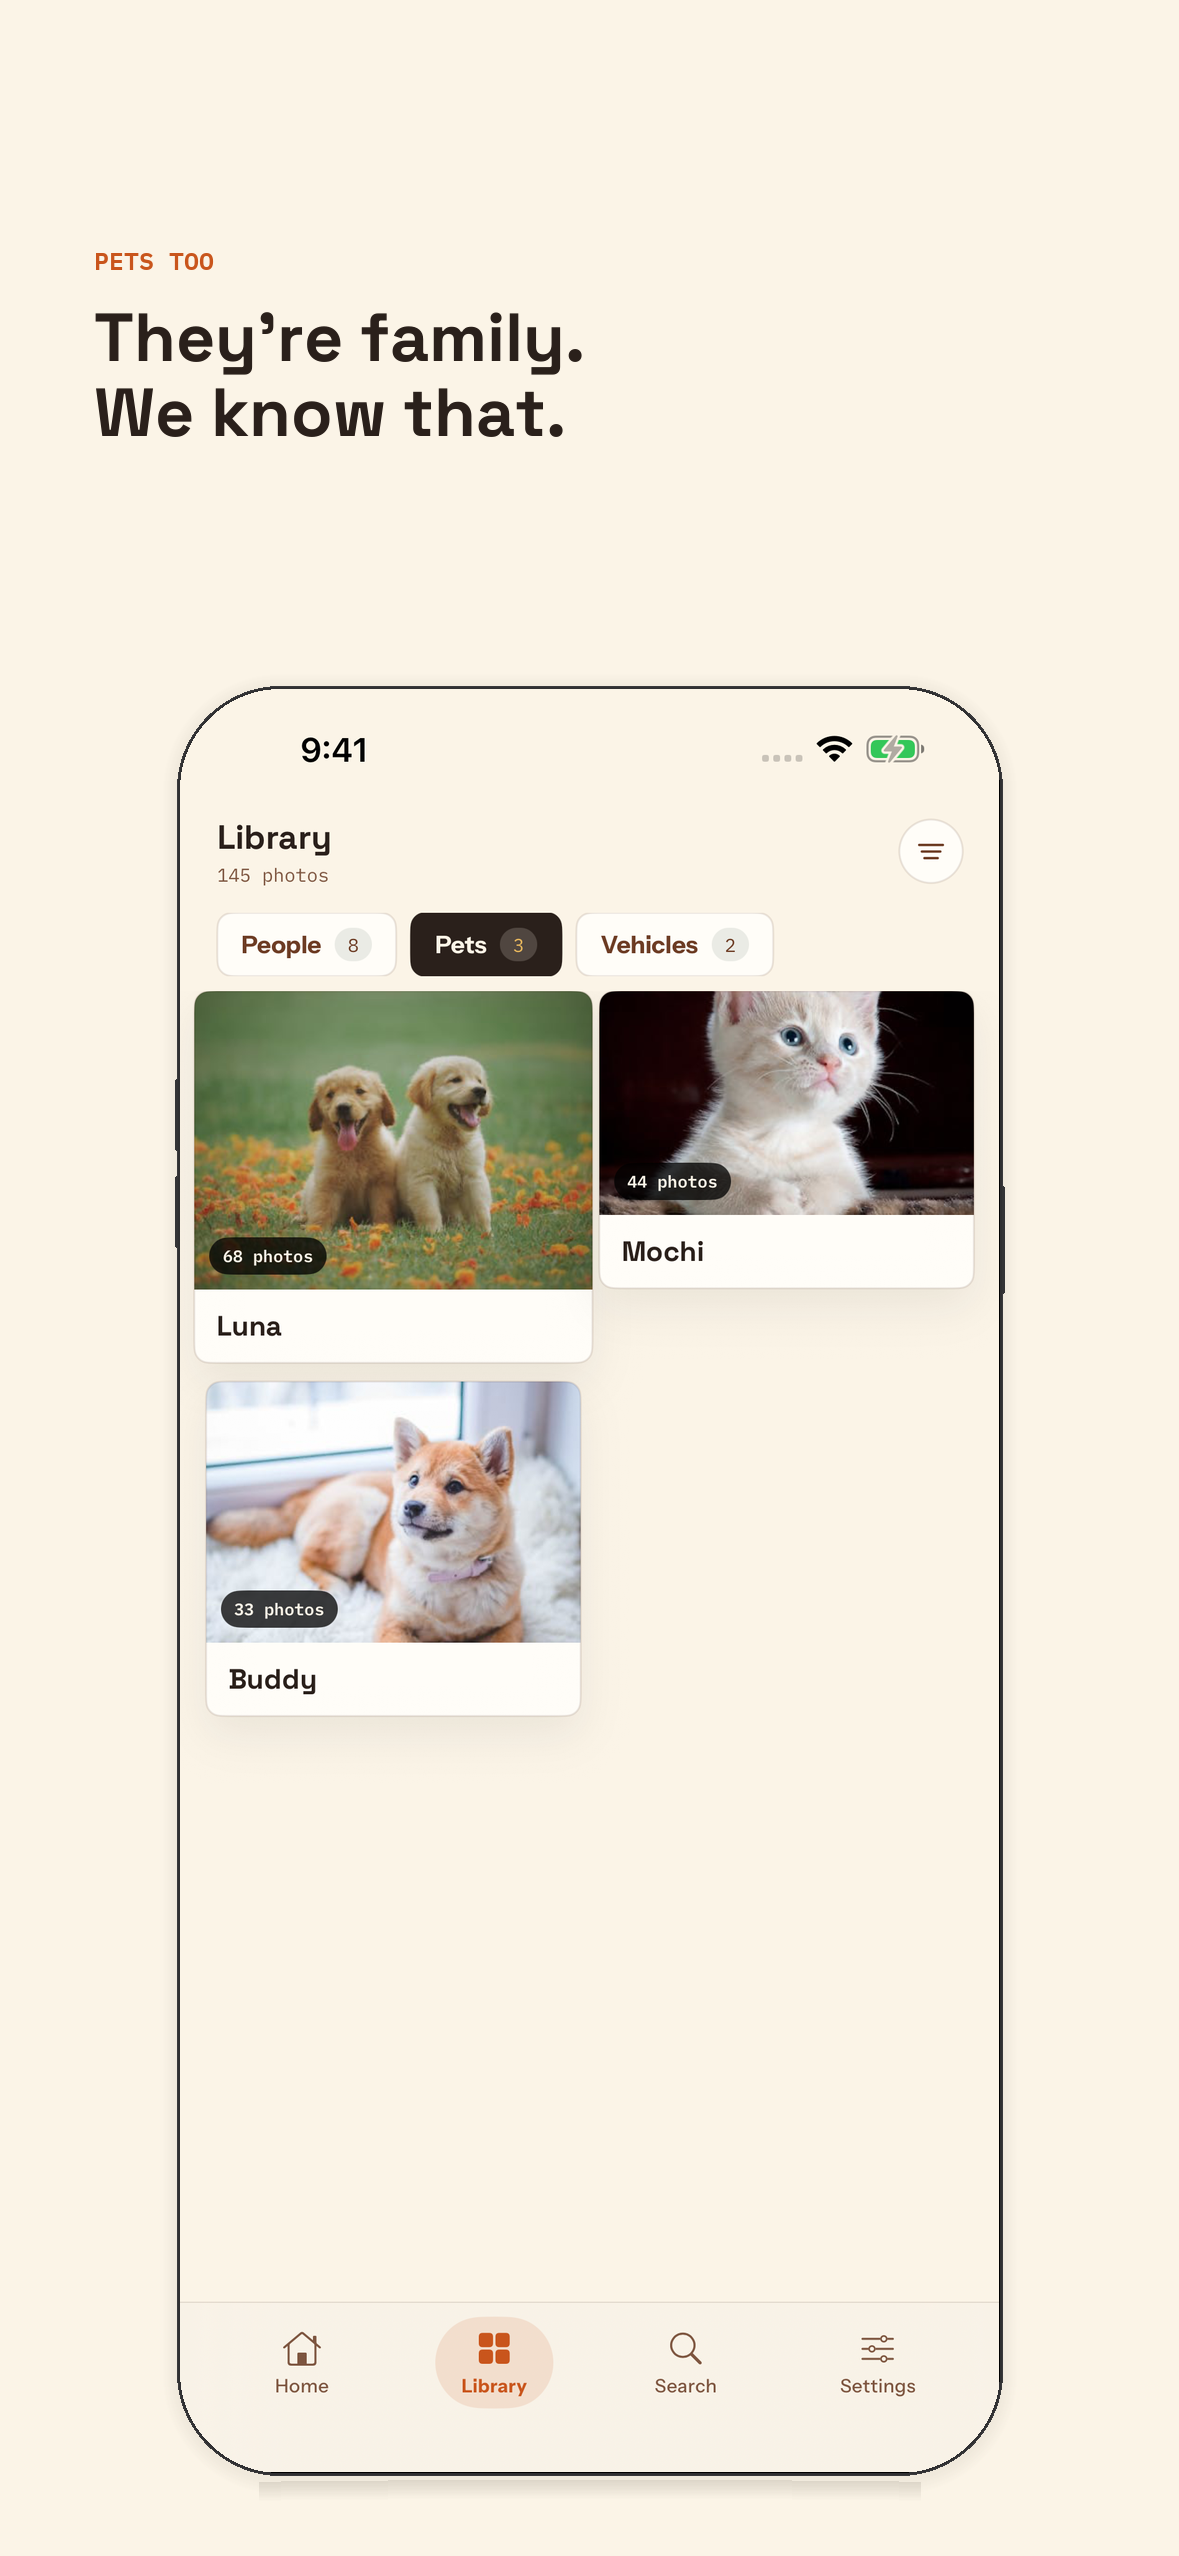
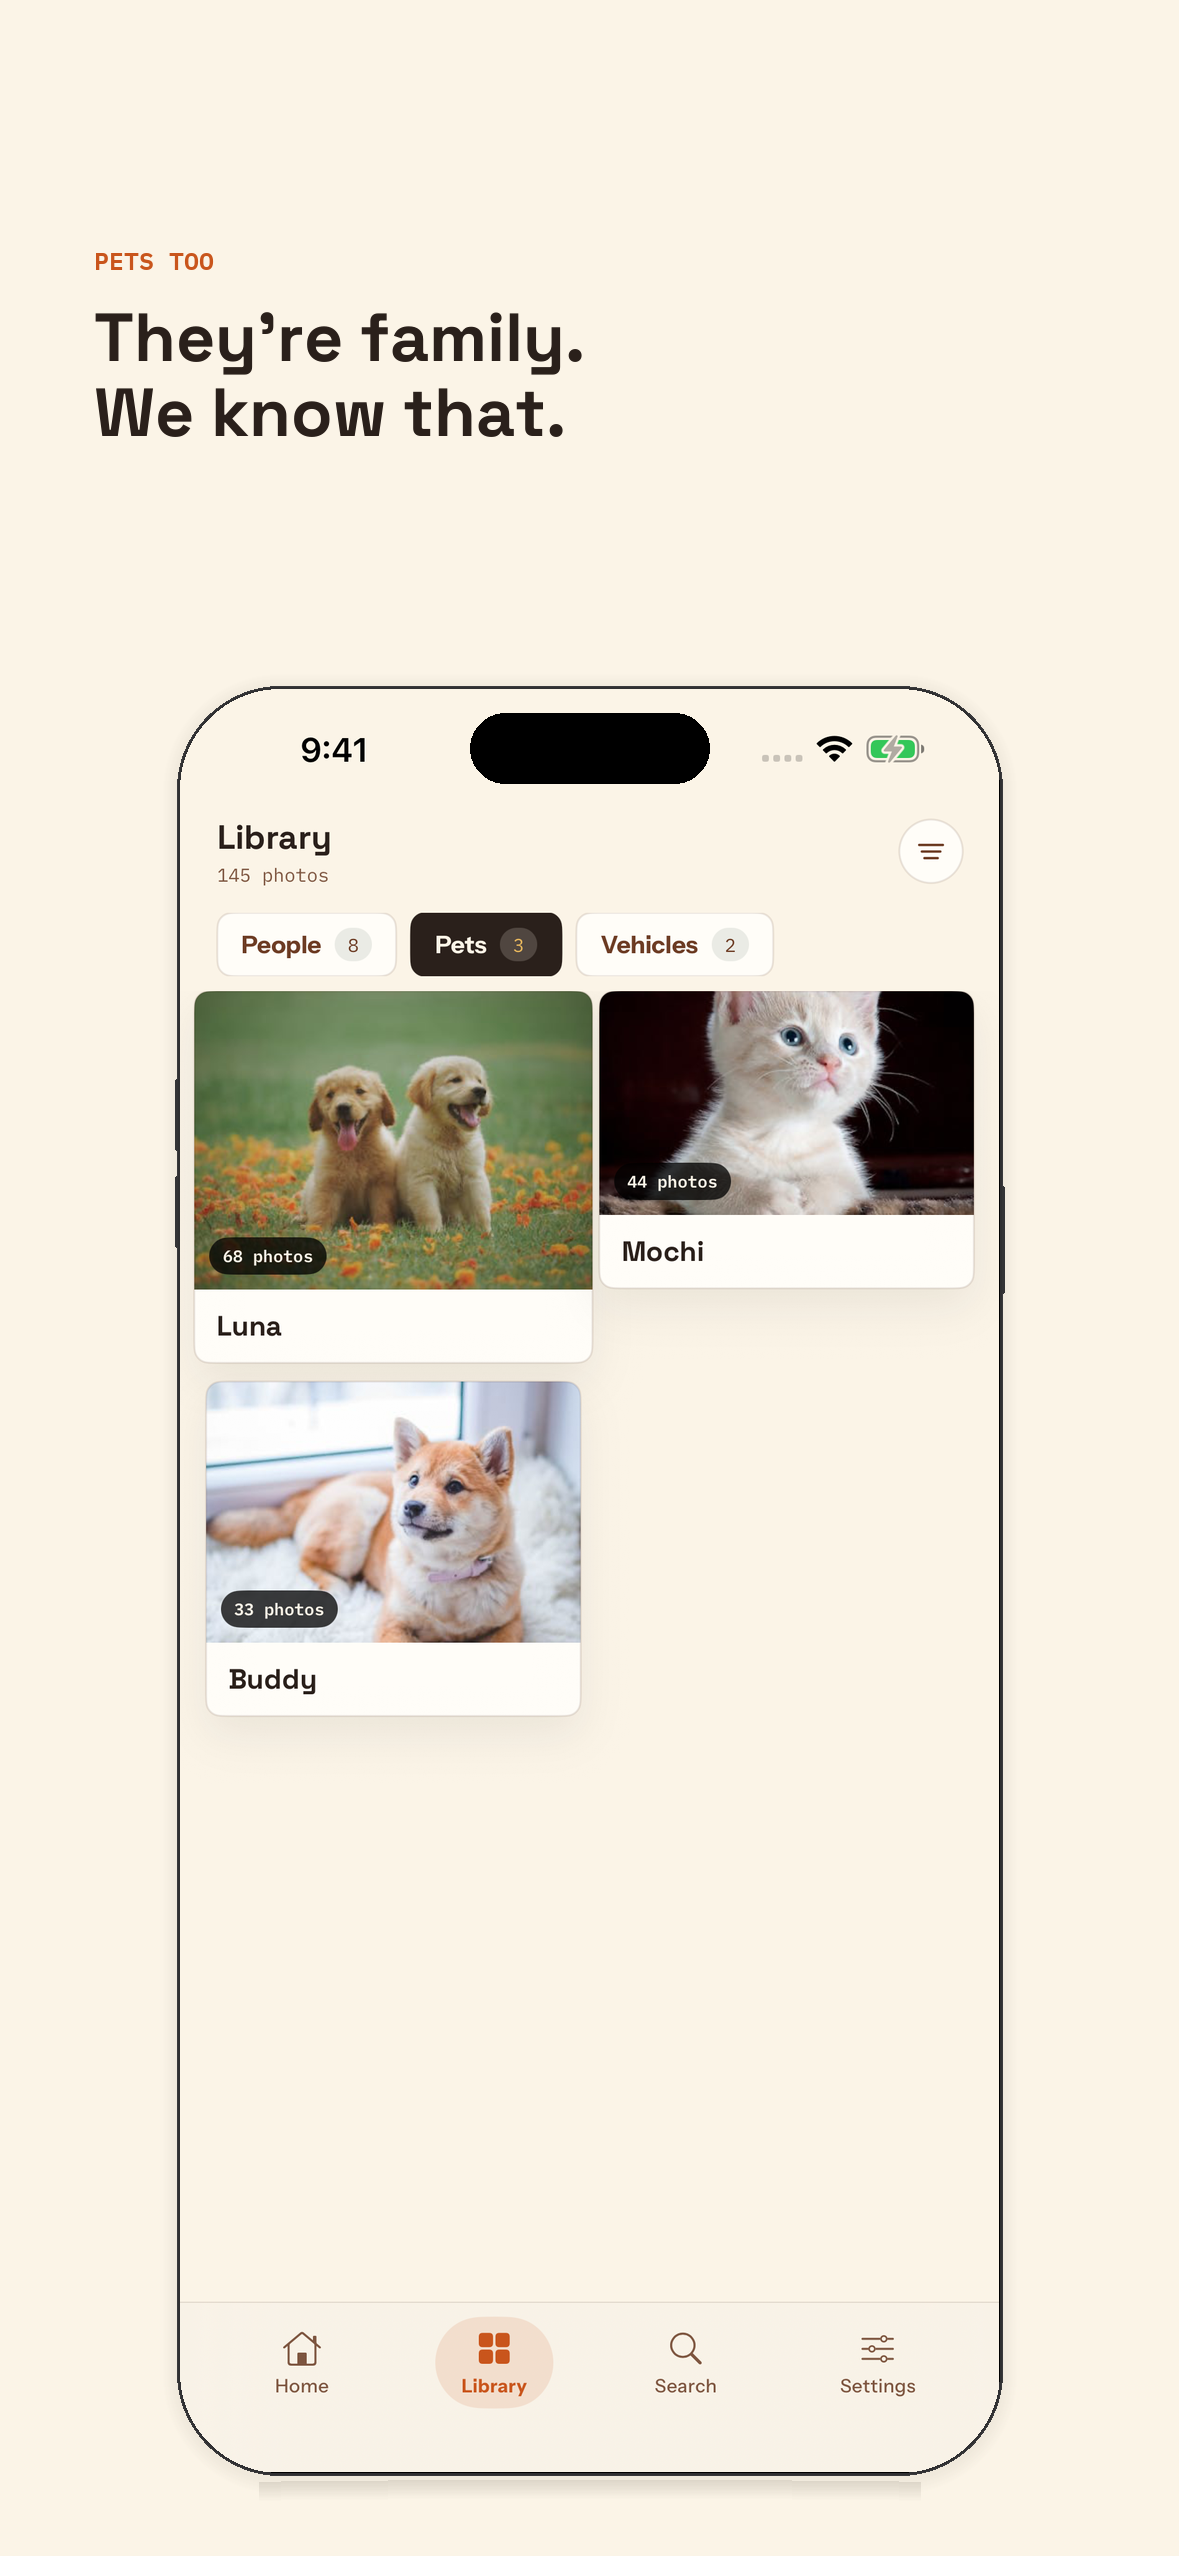
iPad screenshots, Dynamic Island fix, iPad-aware framing
- Capture 10 iPad screenshots with sidebar navigation visible
- Fix NavigationSplitView to show sidebar by default (.doubleColumn)
- Restore Dynamic Island on iPhone frames (was accidentally removed)
- iPad frames: no Dynamic Island, no side buttons, 4:3 aspect ratio
- Screenshot test auto-detects iPhone vs iPad for save path
- Framing script supports 13" iPad Pro size (2064x2752)

Changed region(s): [[0.3969, 0.2782, 0.6107, 0.3091]]

diff --git a/apps/ios/KindredScreenshots/KindredScreenshots.swift b/apps/ios/KindredScreenshots/KindredScreenshots.swift
@@ -141,9 +141,43 @@ final class KindredScreenshots: XCTestCase {
         takeScreenshot(named: "08_settings")
     }
 
+    private var isIPad: Bool {
+        UIDevice.current.userInterfaceIdiom == .pad
+    }
+
     private func tapTab(_ label: String) {
+        // Try exact match first (works on iPhone tab bar)
         let tab = app.buttons.matching(NSPredicate(format: "label == %@", label)).firstMatch
-        if tab.waitForExistence(timeout: 3) { tab.tap() }
+        if tab.waitForExistence(timeout: 2) && tab.isHittable {
+            tab.tap()
+            return
+        }
+        // On iPad, sidebar may be collapsed — try toggling it
+        if isIPad {
+            // Look for the sidebar toggle button (NavigationSplitView back/menu button)
+            let toggles = app.navigationBars.buttons
+            if toggles.count > 0 {
+                // The first button in the nav bar is usually the sidebar toggle
+                let toggle = toggles.firstMatch
+                if toggle.exists && toggle.isHittable {
+                    toggle.tap()
+                    sleep(1)
+                }
+            }
+            // Try finding the sidebar button with CONTAINS (label may include icon name)
+            let sidebarBtn = app.buttons.matching(
+                NSPredicate(format: "label CONTAINS[c] %@", label)
+            ).firstMatch
+            if sidebarBtn.waitForExistence(timeout: 3) && sidebarBtn.isHittable {
+                sidebarBtn.tap()
+                return
+            }
+            // Last resort: try static texts
+            let text = app.staticTexts[label]
+            if text.waitForExistence(timeout: 2) && text.isHittable {
+                text.tap()
+            }
+        }
     }
 
     private func takeScreenshot(named name: String) {
@@ -152,10 +186,12 @@ final class KindredScreenshots: XCTestCase {
         attachment.name = name
         attachment.lifetime = .keepAlways
         add(attachment)
-        // Save to /tmp for easy access
+        // Save to /tmp — use device-specific subfolder
+        let isIPad = UIDevice.current.userInterfaceIdiom == .pad
+        let folder = isIPad ? "/tmp/kindred_screenshots_ipad" : "/tmp/kindred_screenshots"
         let data = screenshot.pngRepresentation
-        let path = "/tmp/kindred_screenshots/\(name).png"
-        try? FileManager.default.createDirectory(atPath: "/tmp/kindred_screenshots", withIntermediateDirectories: true)
+        let path = "\(folder)/\(name).png"
+        try? FileManager.default.createDirectory(atPath: folder, withIntermediateDirectories: true)
         try? data.write(to: URL(fileURLWithPath: path))
     }
 }

diff --git a/apps/ios/Kindred/ContentView.swift b/apps/ios/Kindred/ContentView.swift
@@ -3,6 +3,7 @@ import SwiftUI
 struct ContentView: View {
     @State private var selectedTab = 0
     @State private var demo = DemoDataProvider.shared
+    @State private var sidebarVisibility: NavigationSplitViewVisibility = .doubleColumn
     @Environment(\.horizontalSizeClass) private var horizontalSizeClass
 
     var body: some View {
@@ -45,7 +46,7 @@ struct ContentView: View {
     // MARK: - iPad Layout (sidebar + content)
 
     private var iPadLayout: some View {
-        NavigationSplitView(columnVisibility: .constant(.automatic)) {
+        NavigationSplitView(columnVisibility: $sidebarVisibility) {
             iPadSidebar
                 .navigationSplitViewColumnWidth(min: 220, ideal: 260, max: 300)
         } detail: {

diff --git a/tools/frame-screenshots.py b/tools/frame-screenshots.py
@@ -89,8 +89,10 @@ MARKETING_TEXT = {
 # App Store required sizes
 # ---------------------------------------------------------------------------
 FRAME_SIZES = {
-    "6.7": (1290, 2796),  # iPhone 15 Pro Max
-    "6.1": (1179, 2556),  # iPhone 15 Pro
+    "6.7": (1290, 2796),   # iPhone 15 Pro Max
+    "6.1": (1179, 2556),   # iPhone 15 Pro
+    "13": (2064, 2752),    # iPad Pro 13" (M4/M5)
+    "12.9": (2048, 2732),  # iPad Pro 12.9" (older)
 }
 
 # ---------------------------------------------------------------------------
@@ -175,6 +177,7 @@ def draw_device_frame(
     frame_rect: tuple[int, int, int, int],
     corner_radius: int,
     border_width: int,
+    is_ipad: bool = False,
 ) -> None:
     """Draw an iPhone 15 Pro-style device frame and paste the screenshot inside.
 
@@ -266,31 +269,43 @@ def draw_device_frame(
     # 5. Paste the screenshot
     canvas.paste(cropped, (screen_x1, screen_y1), mask)
 
-    # 6. Side buttons (power on right, volume on left) — subtle details
-    button_color = (52, 52, 54)
-    # Power button (right side)
-    power_y = y1 + int(frame_h * 0.28)
-    power_h = int(frame_h * 0.06)
-    draw.rounded_rectangle(
-        [x2, power_y, x2 + 2, power_y + power_h],
-        radius=1,
-        fill=button_color,
-    )
-    # Volume up (left side)
-    vol_up_y = y1 + int(frame_h * 0.22)
-    vol_h = int(frame_h * 0.04)
-    draw.rounded_rectangle(
-        [x1 - 2, vol_up_y, x1, vol_up_y + vol_h],
-        radius=1,
-        fill=button_color,
-    )
-    # Volume down (left side)
-    vol_down_y = vol_up_y + vol_h + int(frame_h * 0.015)
-    draw.rounded_rectangle(
-        [x1 - 2, vol_down_y, x1, vol_down_y + vol_h],
-        radius=1,
-        fill=button_color,
-    )
+    # 6. Dynamic Island + side buttons (iPhone only — iPads don't have these)
+    if not is_ipad:
+        island_w = int(frame_w * 0.29)
+        island_h = int(frame_w * 0.085)
+        island_x = x1 + (frame_w - island_w) // 2
+        island_y = screen_y1 + int(frame_w * 0.03)
+        island_radius = island_h // 2
+
+        draw = ImageDraw.Draw(canvas)
+        draw.rounded_rectangle(
+            [island_x, island_y, island_x + island_w, island_y + island_h],
+            radius=island_radius,
+            fill=(0, 0, 0),
+        )
+
+        # Side buttons
+        button_color = (52, 52, 54)
+        power_y = y1 + int(frame_h * 0.28)
+        power_h = int(frame_h * 0.06)
+        draw.rounded_rectangle(
+            [x2, power_y, x2 + 2, power_y + power_h],
+            radius=1,
+            fill=button_color,
+        )
+        vol_up_y = y1 + int(frame_h * 0.22)
+        vol_h = int(frame_h * 0.04)
+        draw.rounded_rectangle(
+            [x1 - 2, vol_up_y, x1, vol_up_y + vol_h],
+            radius=1,
+            fill=button_color,
+        )
+        vol_down_y = vol_up_y + vol_h + int(frame_h * 0.015)
+        draw.rounded_rectangle(
+            [x1 - 2, vol_down_y, x1, vol_down_y + vol_h],
+            radius=1,
+            fill=button_color,
+        )
 
 
 def draw_marketing_text(
@@ -390,8 +405,15 @@ def frame_screenshot(
     device_w = canvas_w - (padding * 2)
     device_h = device_area_h
 
-    # Maintain reasonable device aspect ratio (~19.5:9 for modern iPhones)
-    target_device_ratio = 19.5 / 9.0
+    # Detect iPad vs iPhone based on size label
+    is_ipad = size_label in ("13", "12.9")
+
+    # Device aspect ratio: iPhones ~19.5:9, iPads ~4:3
+    if is_ipad:
+        target_device_ratio = 4.0 / 3.0
+    else:
+        target_device_ratio = 19.5 / 9.0
+
     if device_h / device_w > target_device_ratio:
         device_h = int(device_w * target_device_ratio)
     elif device_w / device_h > 1 / target_device_ratio:
@@ -410,6 +432,7 @@ def frame_screenshot(
         (device_x, device_y, device_x + device_w, device_y + device_h),
         corner_radius,
         border_width,
+        is_ipad=is_ipad,
     )
 
     # Draw marketing text in the header area
